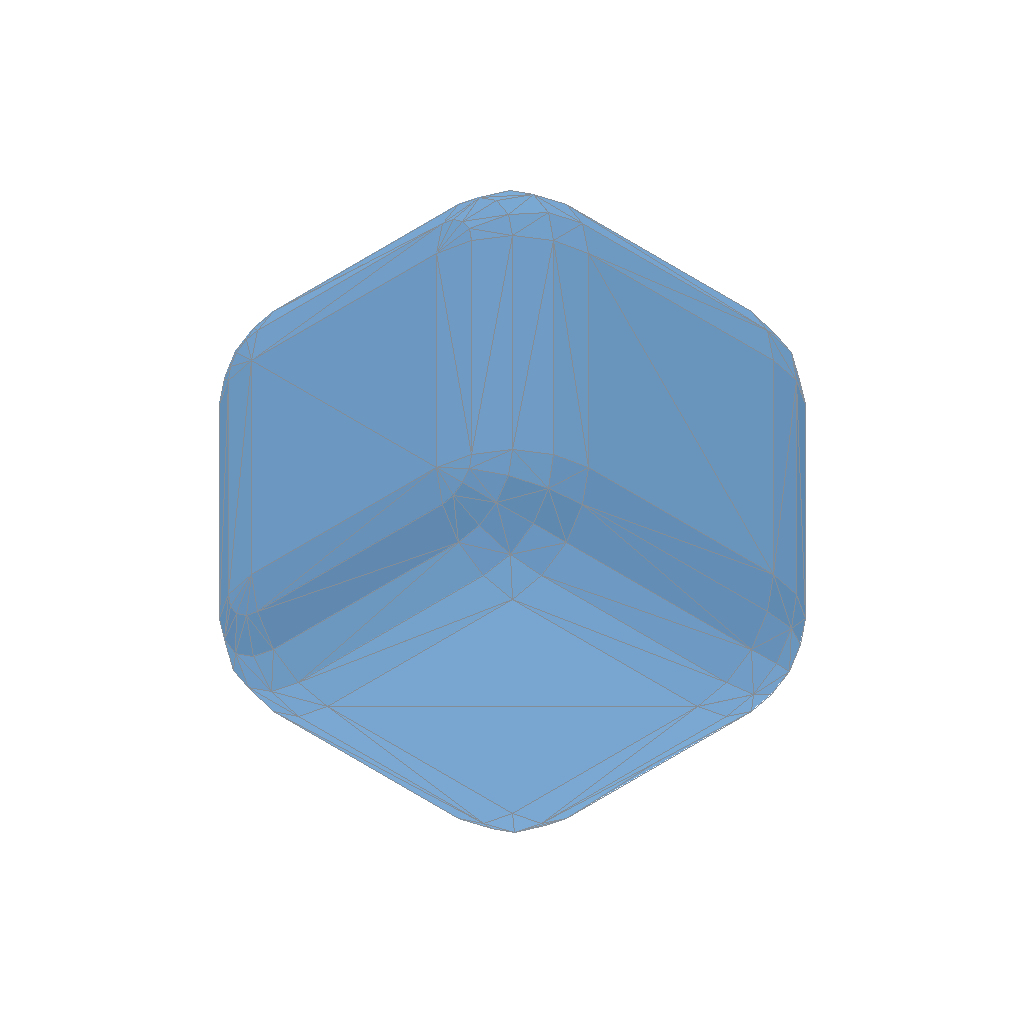
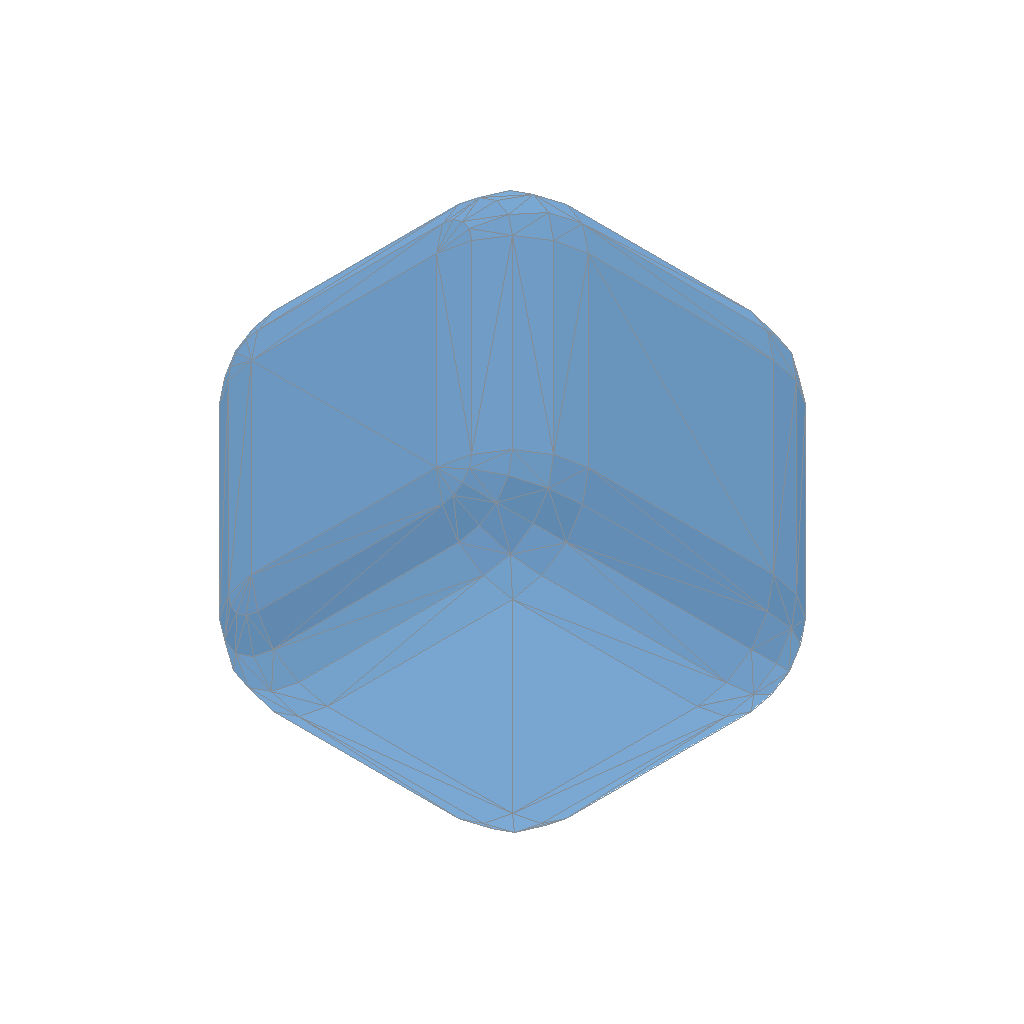
update renders

Changed region(s): [[0.6875, 0.2812, 0.7188, 0.3125]]

diff --git a/examples/readme_renders.rs b/examples/readme_renders.rs
@@ -250,16 +250,8 @@ fn render_readme_meshes() {
         ]),
     );
 
-    let cube = Mesh::<()>::cube(2.0, None);
     render_mesh("inverse", &Mesh::<()>::sphere(1.0, 32, 16, None).inverse());
-    render_mesh(
-        "cube_sphere_difference",
-        &cube.difference(&Mesh::<()>::sphere(1.25, 32, 16, None)),
-    );
-    render_mesh(
-        "csg",
-        &Mesh::<()>::cube(2.0, None).union(&Mesh::<()>::sphere(1.15, 32, 16, None)),
-    );
+    render_mesh("csg", &cube_minus_translated_sphere());
     render_mesh("convex_hull", &Mesh::<()>::cube(1.2, None).convex_hull());
     render_mesh(
         "minkowski_sum",
@@ -302,6 +294,12 @@ fn render_readme_meshes() {
     );
 
     render_distribution_examples();
+}
+
+fn cube_minus_translated_sphere() -> Mesh<()> {
+    let cube = Mesh::<()>::cube(2.0, None);
+    let sphere = Mesh::<()>::sphere(1.25, 16, 8, None).translate(1.0, 1.0, 1.0);
+    cube.difference(&sphere)
 }
 
 fn render_distribution_examples() {

diff --git a/src/lib.rs b/src/lib.rs
@@ -48,6 +48,11 @@ pub mod csg;
 pub mod triangulated;
 pub mod voxels;
 
+/// Compatibility re-exports for trait imports used in examples.
+pub mod traits {
+    pub use crate::csg::CSG;
+}
+
 #[cfg(feature = "wasm")]
 pub mod wasm;
 

diff --git a/readme.md b/readme.md
@@ -77,8 +77,7 @@ cargo run
 
 This results in a file named `cube_sphere_difference.stl` in the current directory
 and it can be viewed in a STL viewer such as [f3d](https://github.com/f3d-app/f3d)
-with, `f3d cube_sphere_difference.stl`, and should look like this:
-![Cube minus sphere](docs/cube_sphere_difference.png)
+with, `f3d cube_sphere_difference.stl`.
 
 ### Building for WASM
 